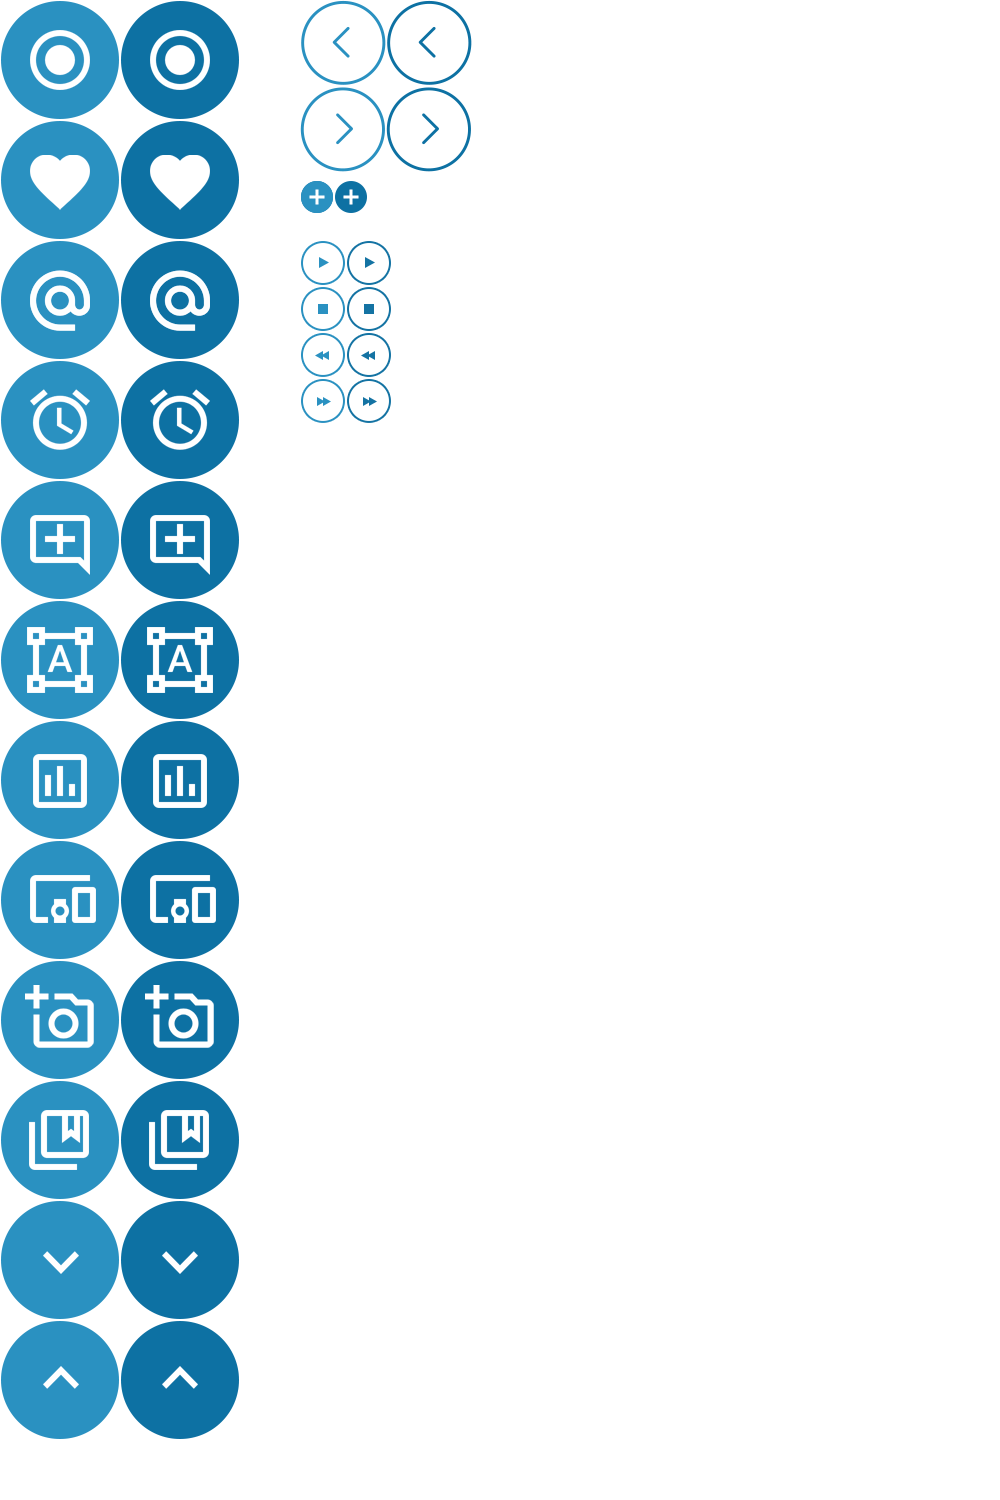
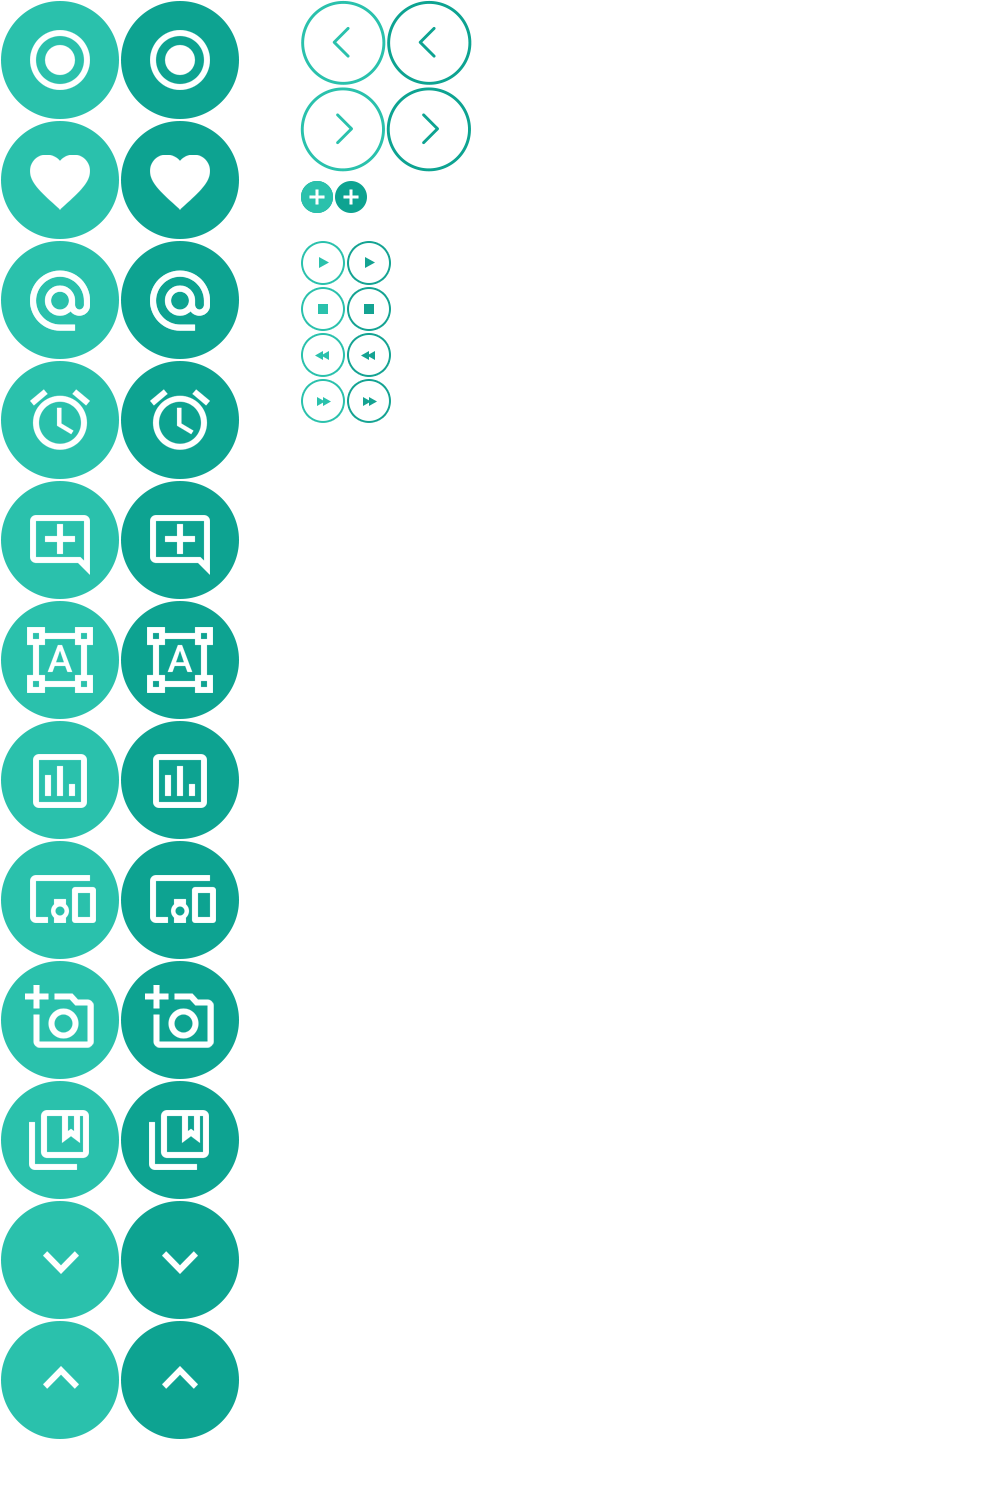
WebStandard Renewal

Changed region(s): [[0.0, 0.0, 0.248, 0.9813], [0.279, 0.0, 0.465, 0.276]]

diff --git a/WebStandard/css/style.css b/WebStandard/css/style.css
@@ -14,7 +14,7 @@
 /* 컨텐츠 레이아웃 */
 #cont_nav {background-color: #f6fdff; display: none;}
 #cont_tit {background-color: #EAF7FD;}
-#cont_ban {background-color: #DCEFF7;}
+#cont_ban {background-color: #d7efec;}
 #cont_cont {background-color: #f6fdff;}
 
 /* 컨테이너 */
@@ -26,8 +26,8 @@
 .header .header-menu a {padding: 10px 0px 10px 13px; color: #fff; display: inline-block;}
 .header .header-menu a:hover {color: #666;}
 .header .header-tit {text-align: center;}
-.header .header-tit h1 {background-color: #4aa8d4; font-size: 28px; padding: 5px 20px 6px 20px; display: inline-block; color: #fff; margin-top: 40px; font-weight: normal; text-transform: uppercase;}
-.header .header-tit a {display: inline-block; background-color: #2698cb; font-size: 18px; color: #fff; padding: 5px 20px 6px 20px; margin-top: -5px;}
+.header .header-tit h1 {background-color: #0da391; font-size: 50px; font-family: 'Dosis', sans-serif; padding: 5px 20px 6px 20px; display: inline-block; color: #fff; margin-top: 40px; text-transform: uppercase;}
+.header .header-tit a {display: inline-block; background-color: #2fbead; font-family: 'Dosis', sans-serif; font-size: 18px; color: #fff; padding: 5px 20px 6px 20px; margin-top: -5px;}
 /* 헤더 아이콘 */
 .header .header-icon {text-align: center; margin-top: 30px;}
 .header .header-icon a {display: inline-block; width: 60px; height: 60px; background: url(../img/icon.png); margin: 0 3px;}
@@ -53,7 +53,7 @@
 
 /* 타이틀 */
 .tit {position: relative;}
-.tit h2 {font-size: 40px; text-align: center; padding: 5px 0; letter-spacing: 2px; color: #2c94c4; font-family: 'Gugi', cursive;}
+.tit h2 {font-size: 40px; text-align: center; padding: 5px 0; letter-spacing: 2px; color: #0da391; font-family: 'Gugi', cursive;}
 .tit .btn {position: absolute; top: 5px; right: 0; width: 60px; height: 60px; background: url(../img/icon.png) no-repeat 0 -600px;}
 .tit .btn.on {background-position: 0 -660px;}
 
@@ -84,8 +84,8 @@
 .ban .slick-slide {margin: 10px;}
 .ban .slick-dots {position: absolute; bottom: 15px; display: block; width: 100%; text-align: center;}
 .ban .slick-dots li {display: inline-block; width: 15px; height: 15px; margin: 5px;}
-.ban .slick-dots li button {font-size: 0; line-height: 0; display: block; width: 15px; height: 15px; cursor: pointer; background: #5dbfeb; border-radius: 50%;}
-.ban .slick-dots li.slick-active button {background: #2b91c8;}
+.ban .slick-dots li button {font-size: 0; line-height: 0; display: block; width: 15px; height: 15px; cursor: pointer; background: #2ac1ac; border-radius: 50%;}
+.ban .slick-dots li.slick-active button {background: #0da391;}
 
 /* 컨텐츠 */
 .cont {overflow: hidden; padding-top: 30px;}
@@ -98,7 +98,7 @@
 .cont .col6 {margin-right: 0; padding-right: 0;}
 
 .cont .column .ico_img {display: block; width: 60px; height: 60px; background: url(../img/icon.png) no-repeat; position: absolute; left: 0; top: 0;}
-.cont .column .ico_tit {padding-left: 70px; font-size: 16px; color: #2c94c4;}
+.cont .column .ico_tit {padding-left: 70px; font-size: 16px; color: #2ac1ac;}
 .cont .column .ico_desc {padding-left: 70px; padding-bottom: 15px; border-bottom: 1px solid #d0d0d0; margin-bottom: 15px;}
 
 .cont .col1 .ico_img {background-position: 0px -240px;}
@@ -116,14 +116,14 @@
 
 /* 게시판 */
 .notice {position: relative;}
-.notice h4 {font-size: 14px; color: #0093bd; padding-bottom: 3px; font-weight: bold;}
+.notice h4 {font-size: 14px; color: #0da391; padding-bottom: 3px; font-weight: bold;}
 .notice li {overflow: hidden; text-overflow: ellipsis; white-space: nowrap; background: url(../img/dot.gif) no-repeat 0 8px; padding-left: 8px;}
 .notice li a {font-size: 12px;}
 .notice a.more {position: absolute; right: 0; top: 0; display: block; background: url(../img/icon.png) -150px -90px; width: 17px; height: 17px;}
 
 /* 게시판2 */
 .notice2 {position: relative; margin-top: 15px;}
-.notice2 h4 {font-size: 14px; color: #0093bd; padding-bottom: 3px; font-weight: bold;}
+.notice2 h4 {font-size: 14px; color: #0da391; padding-bottom: 3px; font-weight: bold;}
 .notice2 li {overflow: hidden;}
 .notice2 li a {float: left; width: 65%; font-size: 12px; overflow: hidden; text-overflow: ellipsis; white-space: nowrap;}
 .notice2 li span {float: right; width: 30%; text-align: right;}
@@ -131,15 +131,15 @@
 
 /* 게시판3 */
 .notice3 {position: relative;}
-.notice3 h4 {font-size: 14px; color: #0093bd; padding-bottom: 3px; font-weight: bold;}
+.notice3 h4 {font-size: 14px; color: #0da391; padding-bottom: 3px; font-weight: bold;}
 .notice3 li {position: relative; padding: 8px 0 14px 60px;}
-.notice3 li a img {width: 50px; position: absolute; left: 0; top: 0; border: 1px solid #0093bd;}
+.notice3 li a img {width: 50px; position: absolute; left: 0; top: 0; border: 1px solid #0da391;}
 .notice3 li a strong {display: block; overflow: hidden; text-overflow: ellipsis; white-space: nowrap;}
 .notice3 li a span {display: block; font-size: 12px; overflow: hidden; text-overflow: ellipsis; white-space: nowrap;}
 .notice3 a.more {position: absolute; right: 0; top: 0; display: block; background: url(../img/icon.png) -150px -90px; width: 17px; height: 17px;}
 
 /* 마우스 오버효과1 */
-.notice_hover h4 {font-size: 14px; color: #0093bd; padding-bottom: 3px; font-weight: bold;}
+.notice_hover h4 {font-size: 14px; color: #0da391; padding-bottom: 3px; font-weight: bold;}
 .notice_hover ul {overflow: hidden;}
 .notice_hover ul li {float: left; width: 93px; margin-right: 5px; text-align: center;}
 .notice_hover ul li:last-child {margin-right: 0px;} /* ie9부터 사용 가능 */
@@ -169,12 +169,12 @@
 .tab_menu ul li ul {position: absolute; left: 0; top: 48px; width: 270px; border: 0;}
 .tab_menu ul li ul li {float: none; border: 0; background: url(../img/dot.gif) no-repeat 9px 8px; padding-left: 18px;}
 .tab_menu ul li ul li a {overflow: hidden; text-overflow: ellipsis; white-space: nowrap; width: 100%; padding: 0 0 3px 0;}
-.tab_menu ul li.active {background: #2c94c4;}
+.tab_menu ul li.active {background: #2ac1ac;}
 .tab_menu ul li.active ul li a {color: #333;}
 
 /* 게시판4 */
 .notice4 {position: relative; border: 1px solid #ccc;}
-.notice4 h4 {padding: 8px 10px; border-bottom: 1px solid #ccc; font-size: 14px; font-weight: 700; color: #0093bd;}
+.notice4 h4 {padding: 8px 10px; border-bottom: 1px solid #ccc; font-size: 14px; font-weight: 700; color: #0da391;}
 .notice4 h4 em {color: #cf3292;}
 .notice4 ul {padding: 10px;}
 .notice4 li {overflow: hidden; background: url(../img/dot.gif) no-repeat 0 8px; padding-left: 8px;}
@@ -184,7 +184,7 @@
 
 /* 갤러리
 .gallery {position: relative; border: 1px solid #ccc; height: 254px; overflow: hidden;}
-.gallery h4 {padding: 10px 0 8px 11px; border-bottom: 1px solid #ccc; font-size: 14px; font-weight: 700; color: #0093bd;}
+.gallery h4 {padding: 10px 0 8px 11px; border-bottom: 1px solid #ccc; font-size: 14px; font-weight: 700; color: #0da391;}
 .gallery .gallery_btn {position: absolute; top: 7px; right: 5px;}
 .gallery .gallery_btn ul {overflow: hidden;}
 .gallery .gallery_btn li {float: left; margin: 1px 2px;}
@@ -202,7 +202,7 @@
 
 /* 슬릭 갤러리 */
 .gallery {position: relative; border: 1px solid #ccc; height: 254px; overflow: hidden;}
-.gallery h4 {padding: 10px 0 8px 11px; border-bottom: 1px solid #ccc; font-size: 14px; font-weight: 700; color: #0093bd;}
+.gallery h4 {padding: 10px 0 8px 11px; border-bottom: 1px solid #ccc; font-size: 14px; font-weight: 700; color: #0da391;}
 .gallery .gallery_btn {position: absolute; top: 7px; right: 5px;}
 .gallery .gallery_btn button {float: left; margin: 1px 2px; display: block; width: 23px; height: 23px; background: url(../img/icon.png) no-repeat;}
 .gallery .gallery_btn .gb_icon1 {background-position: -150px -120px;}
@@ -221,7 +221,7 @@
 .login_header .lh_check {float: left; padding-right: 15px;}
 .login_header .lh_check .input_check {vertical-align: -2px;}
 .login_header .lh_ip {float: left;}
-.login_header .lh_ip em {color: #0093bd; text-decoration: underline;}
+.login_header .lh_ip em {color: #0da391; text-decoration: underline;}
 .login_content {position: relative;}
 .login_content .lc_btn {position: absolute; right: 0; top: 0; width: 62px; height: 47px; background: #fff; border: 1px solid #bebebe;}
 .login_content .input_text {width: 182px; height: 16px; padding: 2px 5px; border: 1px solid #bebebe; margin-bottom: 3px; background: #fff;}
@@ -230,7 +230,7 @@
 .login_footer li a {font-size: 12px}
 
 /* 팝업 */
-.popup h4 {font-size: 14px; color: #0093bd; padding-bottom: 4px; font-weight: 700;}
+.popup h4 {font-size: 14px; color: #0da391; padding-bottom: 4px; font-weight: 700;}
 .popup ul {overflow: hidden;}
 .popup li {float: left; width: 93px; margin-right: 5px;}
 .popup li.last {margin-right: 0;}
@@ -247,5 +247,5 @@
 /* 레이어 팝업 */
 #layer {display: none; position: fixed; left: 50px; top: 50px; width: 700px; border: 10px solid #dceff7; box-shadow: 3px 3px 10px rgba(0,0,0,0.4);}
 #layer img {width: 100%; display: block;}
-#layer .close {position: absolute; right: 20px; top: 20px; background: #0093bd; padding: 1px 6px; color: #fff;}
+#layer .close {position: absolute; right: 20px; top: 20px; background: #0da391; padding: 1px 6px; color: #fff;}
 #layer .close:hover {text-decoration: underline;}

diff --git a/WebStandard/index.html b/WebStandard/index.html
@@ -2,9 +2,7 @@
 <html lang="ko">
 <head>
     <meta charset="UTF-8">
-    <meta name="author" content="webstoryboy">
     <meta name="Description" content="웹 표준을 준수한 사이트 예제입니다.">
-    <meta name="keywords" content="웹스토리보이, 웹표준, 웹접근성, 사이트 만들기">
     <meta name="generator" content="brakets">
     <title>WebStandard Site</title>
     <!-- CSS Style -->
@@ -15,6 +13,7 @@
     <!-- Web Font -->
     <link href="https://fonts.googleapis.com/css?family=Nanum+Gothic&display=swap" rel="stylesheet">
     <link href="https://fonts.googleapis.com/css2?family=Gugi&display=swap" rel="stylesheet">
+    <link href="https://fonts.googleapis.com/css2?family=Dosis:wght@700&display=swap" rel="stylesheet">
 </head>
 <body>
    <!-- 스킵 네비게이션 -->
@@ -35,8 +34,8 @@
                             <a href="#">Youtube</a>
                         </div>
                         <div class="header-tit">
-                            <h1>PROFESSIONAL PUBLISHER & DESIGNER</h1><br>
-                            <a href="#">sryung1225.co.kr</a>
+                            <h1>BASIC STANDARD WEB</h1><br>
+                            <a href="#">sryung1225.dothome.kr</a>
                         </div>
                         <div class="header-icon">
                             <a href="#" class="icon1"><span class="ir_pm">icon1</span></a>
